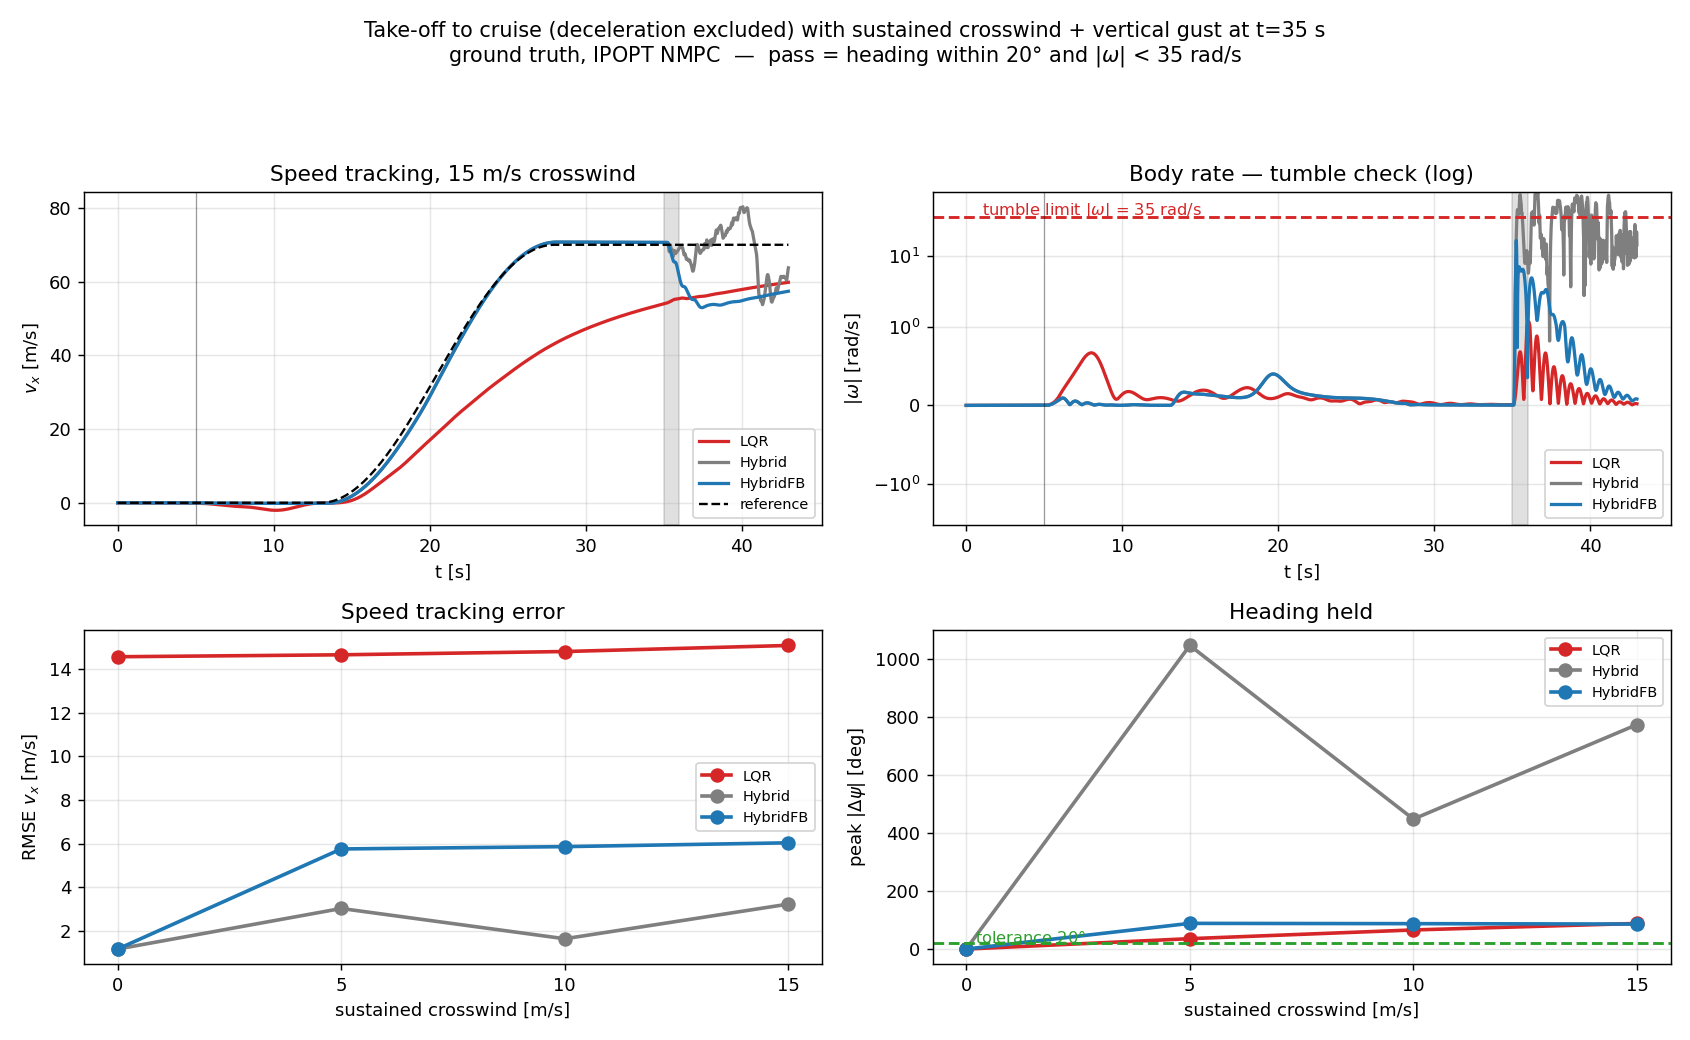
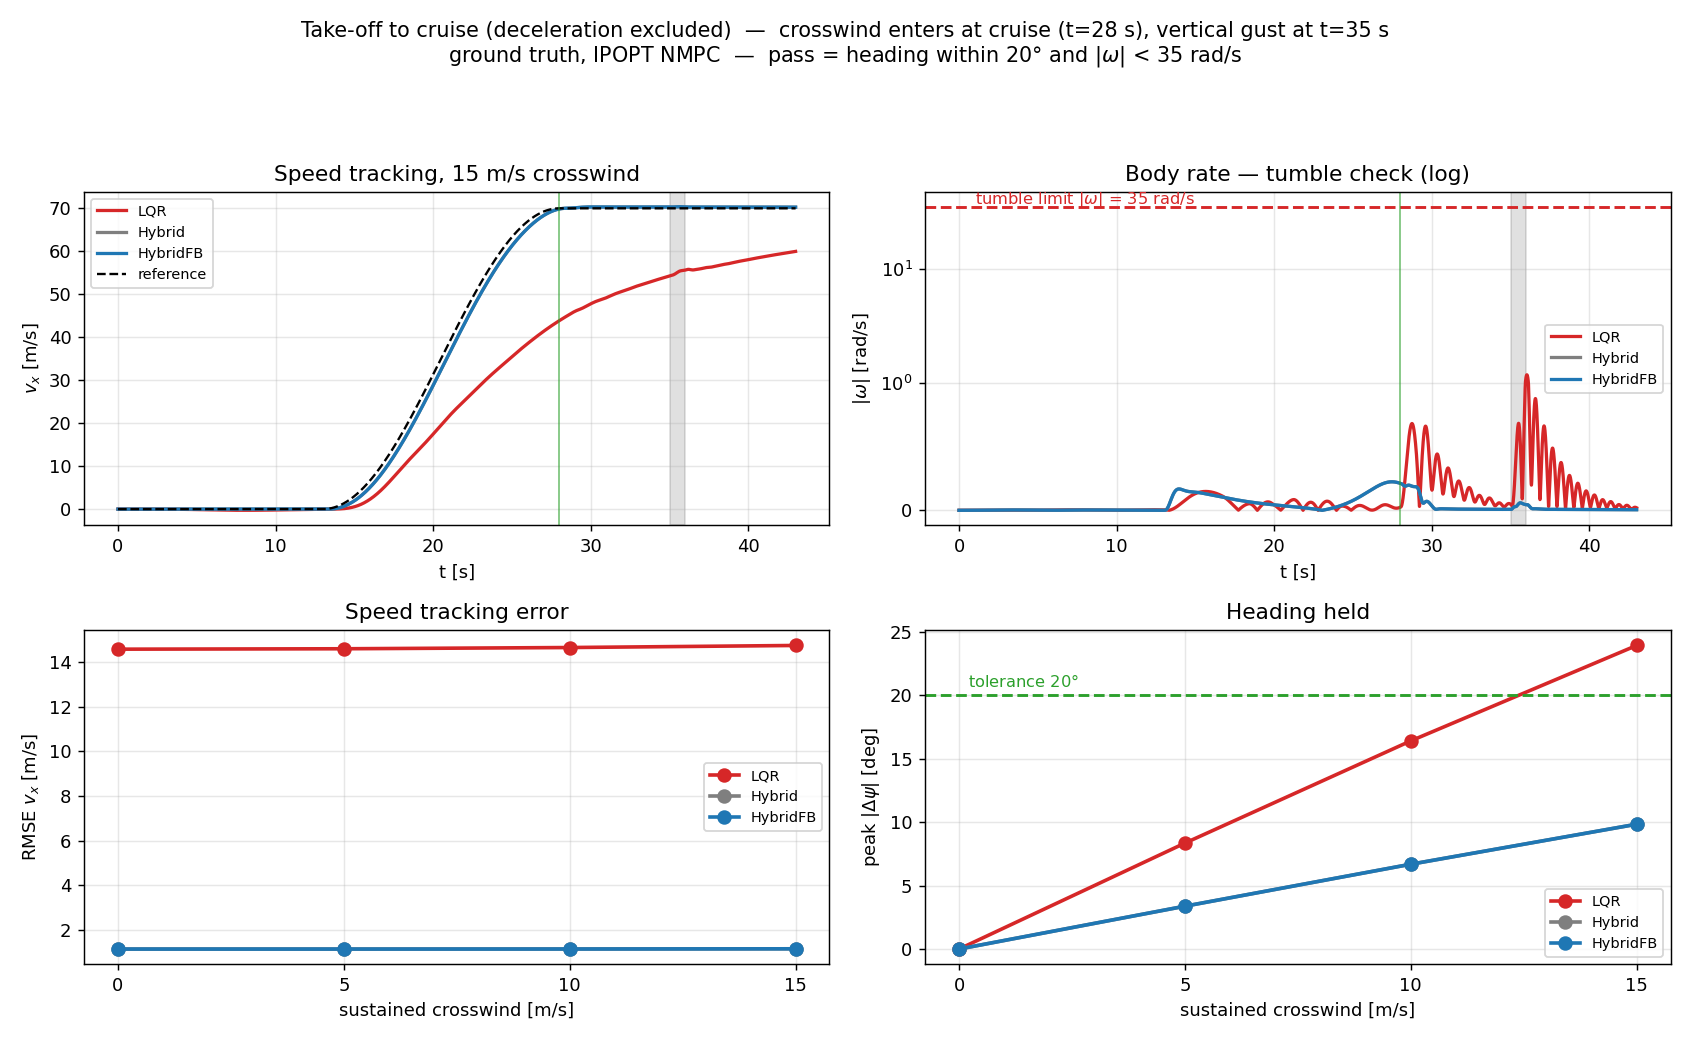
최종 그래프 확정 — 측풍을 순항 진입(t=28)에 걸어 20도 판정선이 작동
kj 지정 1 번안. 측풍 진입을 이륙(5s) -> 순항 시작(28s) 으로 옮겼다.
수직돌풍이 t=35 라 측풍 진입 7 초 뒤 겹치므로 조합 외란 시험은 유지된다.

결과 (t<43s, 참값/IPOPT, 기수오차 20도 + |w|<35 판정)
  W   제어기      RMSEvx  RMSEz  요max     dy     |w|max  판정
  0   LQR         14.57   4.81   0.00deg   0.00m   1.18   PASS
  0   Hybrid/FB    1.16   1.98   0.00deg   0.00m   0.22   PASS
  5   LQR         14.59   4.81   8.35deg   4.52m   1.18   PASS
  5   Hybrid/FB    1.16   1.98   3.38deg   9.79m   0.22   PASS
  10  LQR         14.65   4.81  16.42deg   9.00m   1.18   PASS
  10  Hybrid/FB    1.16   1.98   6.69deg  19.48m   0.22   PASS
  15  LQR         14.74   4.81  23.94deg  13.43m   1.19   FAIL(요)
  15  Hybrid/FB    1.17   1.98   9.85deg  28.97m   0.22   PASS

**적용 범위** — 기수오차 20 도 한계 측풍
    LQR    기울기 1.60 deg/(m/s) -> 12.5 m/s
    Hybrid 기울기 0.66 deg/(m/s) -> 30.4 m/s     2.4 배

정정 — 조합 외란 텀블이 사라졌다. 측풍을 t=28 에 걸면 |w| 0.22 로 전 조건 통과다.
  즉 그 텀블은 '측풍 + 수직돌풍' 만으로 나는 게 아니라 **측풍이 저속(이륙·가속)
  구간부터 있었을 때** 난다. 앞 커밋의 '조합 외란' 표현은 조건이 덜 특정됐다.
  정확히는: 저속 구간부터 측풍 -> 순항에서 수직돌풍이 겹칠 때 (|w| 76~83).
  별도 조사 대상으로 남긴다.

폴백은 한 번도 안 걸렸다 (Hybrid 와 HybridFB 결과가 완전히 동일).

트레이드오프 유지: 횡편차는 여전히 LQR 이 우수하다 (13.43 vs 28.97 m, 2.2 배).

diff --git a/control/robustness_crosswind.py b/control/robustness_crosswind.py
@@ -87,18 +87,32 @@ def _mk(name, params, v_ref, z_ref, dt):
 # ══════════════════════════════════════════════════════════════════════
 # E — 65초 통합미션 + 지속 측풍
 # ══════════════════════════════════════════════════════════════════════
-def _wind_mission(W_cross):
-    """미션 전체에 지속 측풍 + 기존 수직돌풍(t=35s, 10 m/s).
+# 측풍 진입 시각. **순항 시작(28s)** 이 기본이다.
+#
+# 처음엔 이륙 직후(5s)부터 걸었는데, 그러면 기수오차 판정이 무의미해진다:
+# 풍향계 복원 강성이 q_bar ~ V^2 라 V~0 인 이륙·호버에서 0 이고, 제어기가
+# 무엇이든 기체가 그냥 돌아간다 (LQR 도 측풍 5 m/s 에서 35.8 도).
+# 그건 제어 문제가 아니라 물리라서, 제어기를 가르는 지표가 못 된다.
+# 저속 측풍은 별도 케이스(T_ON_TAKEOFF)로 따로 본다.
+T_ON_CRUISE = 28.0
+T_ON_TAKEOFF = 5.0
+
+
+def _wind_mission(W_cross, t_on=T_ON_CRUISE):
+    """지속 측풍 + 기존 수직돌풍(t=35s, 10 m/s).
 
     실제 비행에서 바람은 계속 불고 돌풍이 그 위에 얹힌다. 기존 미션은 돌풍만
     있었으므로 '바람 없는 날의 돌풍' 이었다.
+
+    t_on=28 이면 순항 진입과 함께 측풍이 들어오고, 7 초 뒤 수직돌풍이 겹친다
+    — **조합 외란 시험은 그대로 유지된다.**
     """
     gust = make_gust_fn("vertical", 10.0, 35.0, 1.0)
 
     def f(t):
-        w = gust(t)
-        if t >= 5.0:                       # 이륙 직후부터 계속
-            w = w + np.array([0.0, W_cross * min((t - 5.0) / 1.0, 1.0), 0.0])
+        w = np.array(gust(t), float)
+        if t >= t_on:
+            w = w + np.array([0.0, W_cross * min((t - t_on) / 1.0, 1.0), 0.0])
         return w
     return f
 
@@ -274,7 +288,8 @@ def final_comparison():
                   color="C3", fontsize=9)
     ax[0, 1].set_yscale("symlog", linthresh=1)
     for a in (ax[0, 0], ax[0, 1]):
-        a.axvspan(35, 36, color="k", alpha=.12); a.axvline(5, color="k", lw=.7, alpha=.4)
+        a.axvspan(35, 36, color="k", alpha=.12)
+        a.axvline(T_ON_CRUISE, color="C2", lw=1.0, alpha=.6)
         a.set_xlabel("t [s]"); a.grid(alpha=.3); a.legend(fontsize=8)
     ax[0, 0].set_ylabel("$v_x$ [m/s]")
     ax[0, 0].set_title(f"Speed tracking, {CW_FINAL[-1]:.0f} m/s crosswind")
@@ -295,8 +310,9 @@ def final_comparison():
         a.set_xlabel("sustained crosswind [m/s]"); a.set_ylabel(lab)
         a.set_title(ttl); a.set_xticks(CW_FINAL); a.grid(alpha=.3); a.legend(fontsize=8)
 
-    fig.suptitle("Take-off to cruise (deceleration excluded) with sustained crosswind "
-                 "+ vertical gust at t=35 s\nground truth, IPOPT NMPC  —  "
+    fig.suptitle("Take-off to cruise (deceleration excluded)  —  crosswind enters at "
+                 f"cruise (t={T_ON_CRUISE:.0f} s), vertical gust at t=35 s\n"
+                 "ground truth, IPOPT NMPC  —  "
                  f"pass = heading within {YAW_LIMIT_DEG:.0f}$\\degree$ and "
                  rf"$|\omega|$ < {OMEGA_FAIL:.0f} rad/s", fontsize=11.5)
     fig.tight_layout(rect=[0, 0, 1, 0.93])
